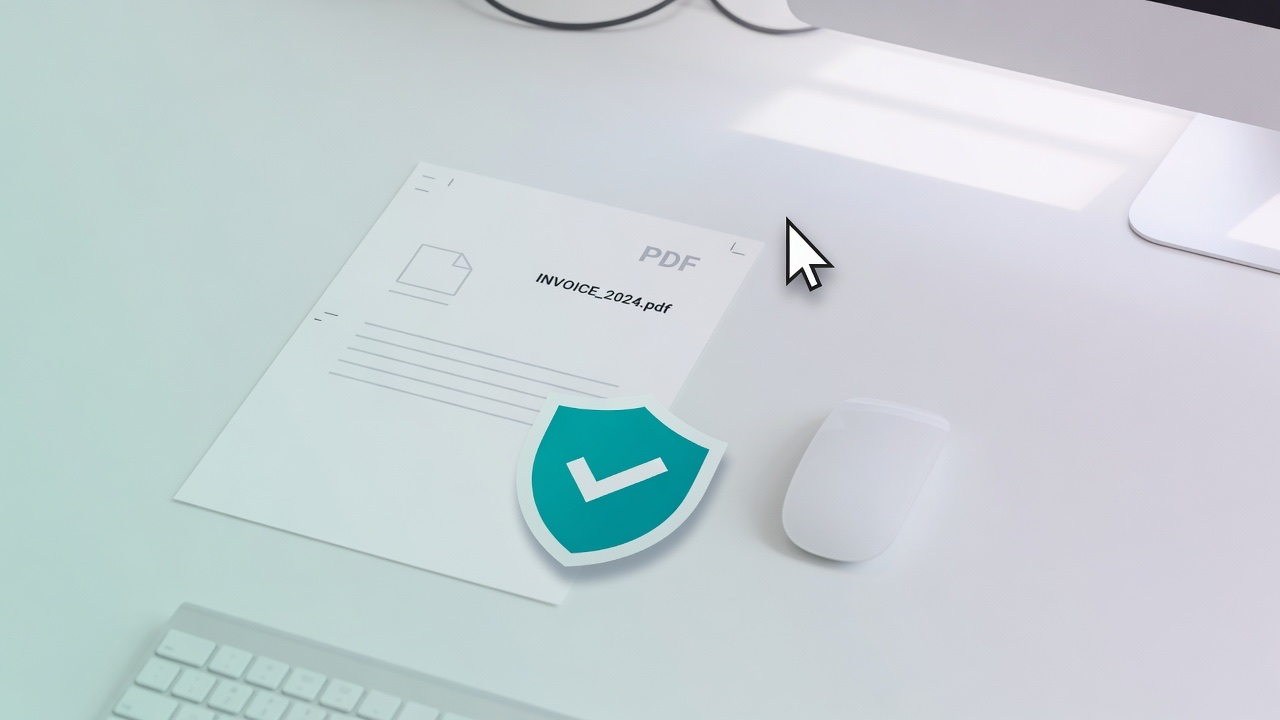
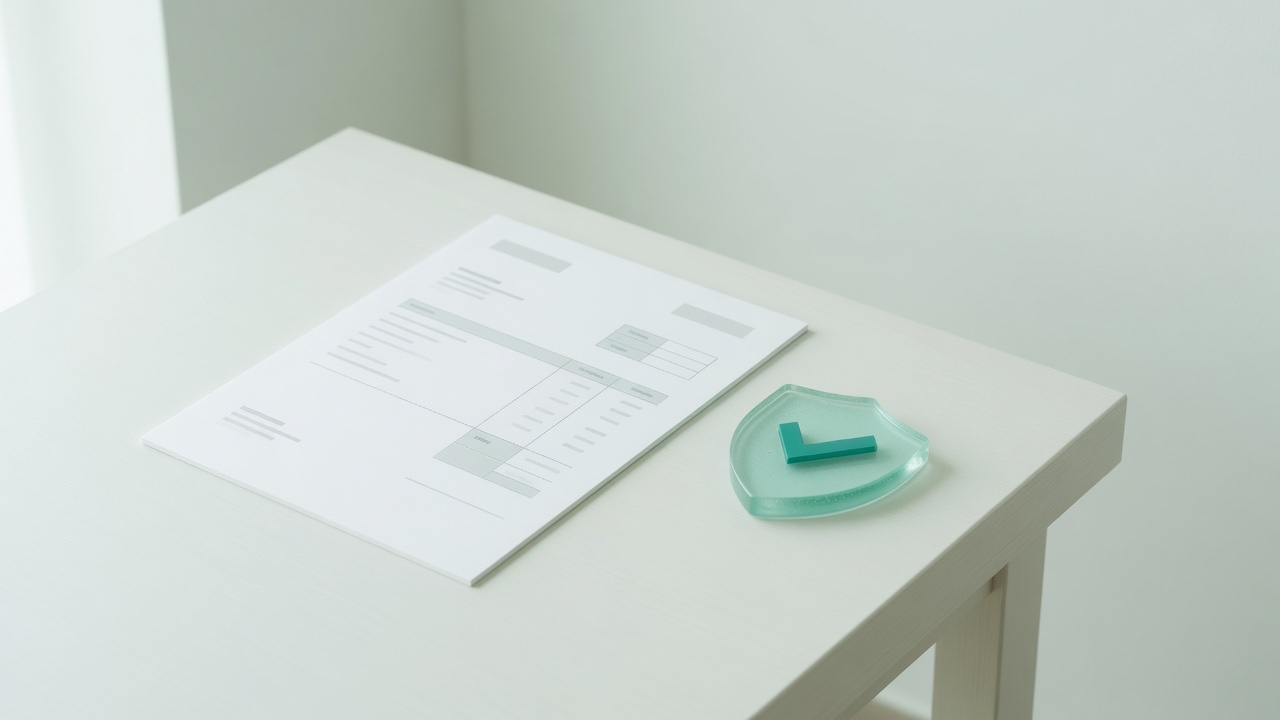
Refresh Chrome extension blog cover without mouse cursor.
Replace cover still with invoice PDF + teal glass check shield only; update coverAlt.

diff --git a/client/src/blog/posts/chrome-extension-verify-pdf.ts b/client/src/blog/posts/chrome-extension-verify-pdf.ts
@@ -11,7 +11,7 @@ export const post: BlogPost = {
   tags: ['feature', 'verify'],
   coverImage: cover,
   coverAlt:
-    'White desk with an invoice PDF, mouse cursor, and teal check shield for private document verification',
+    'White desk with an invoice PDF and teal glass check shield for private document verification',
   relatedSlugs: [
     'how-to-verify-signed-pdf-without-a-wallet',
     'tamper-proof-pdf-verification',